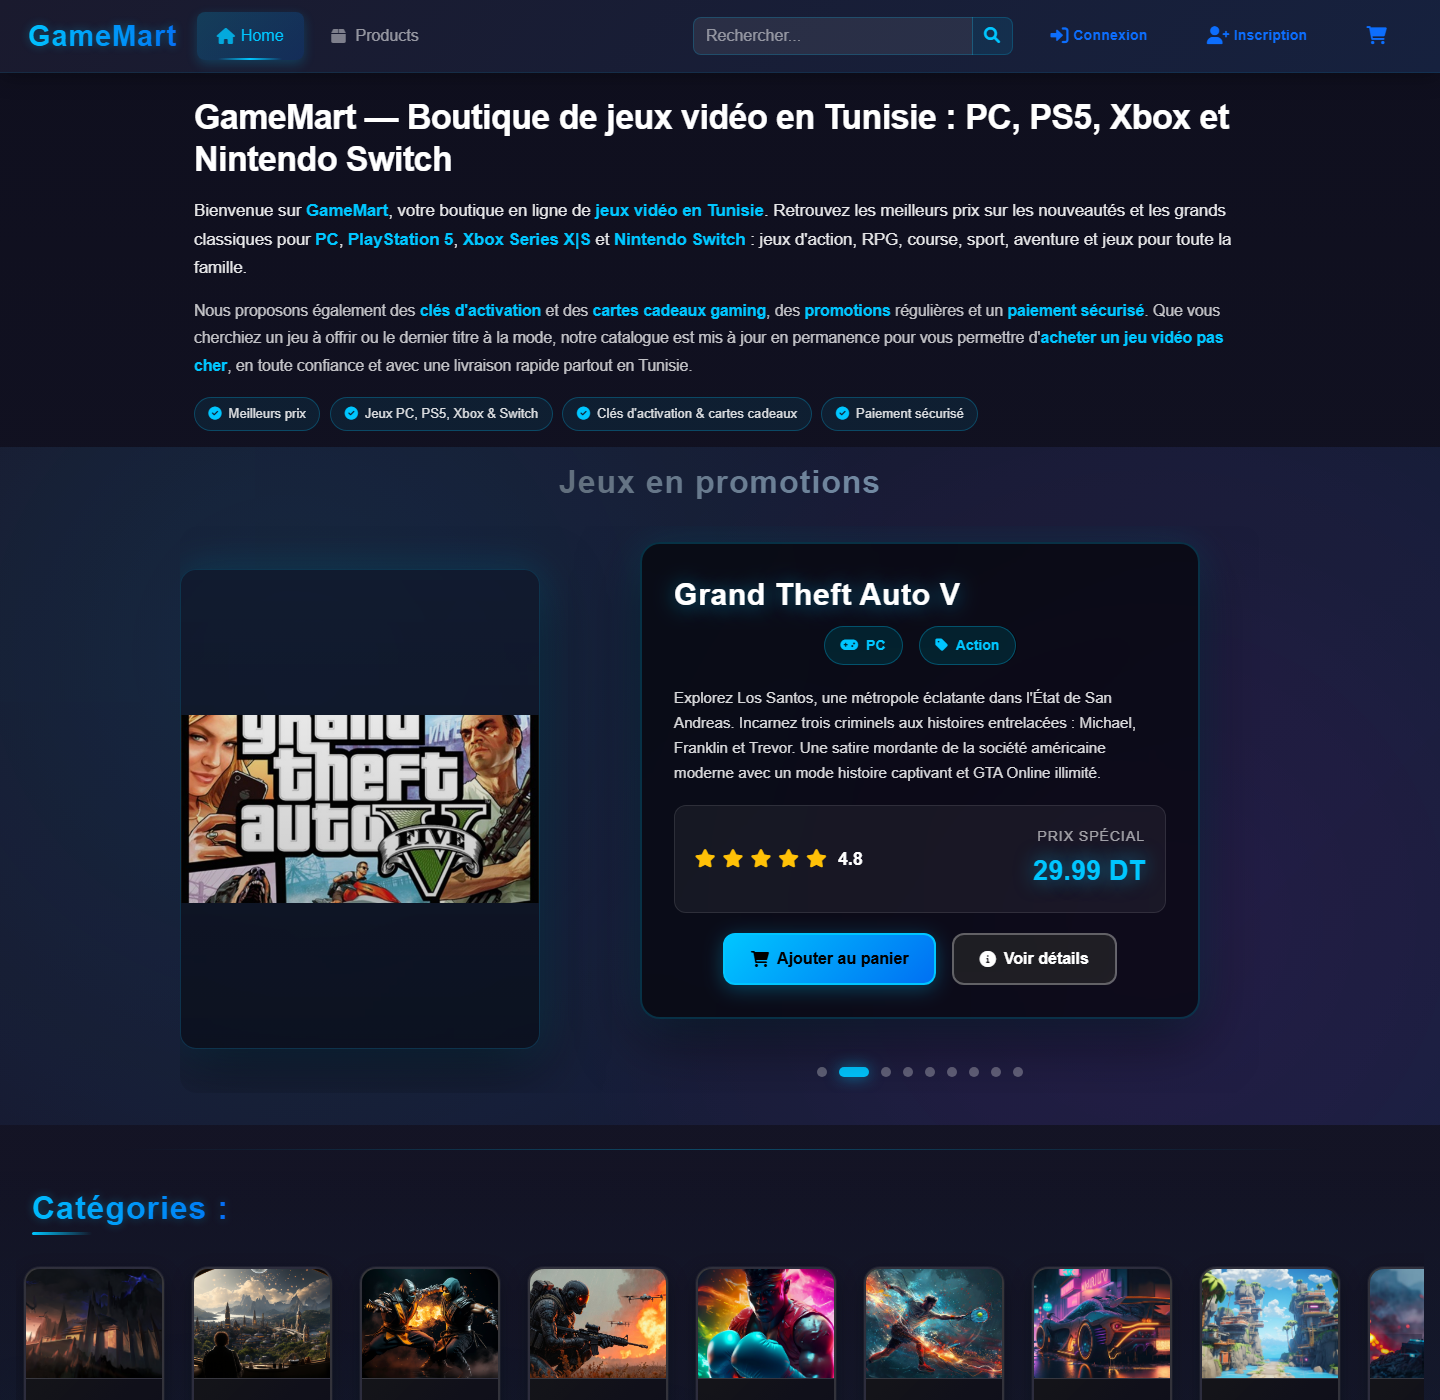
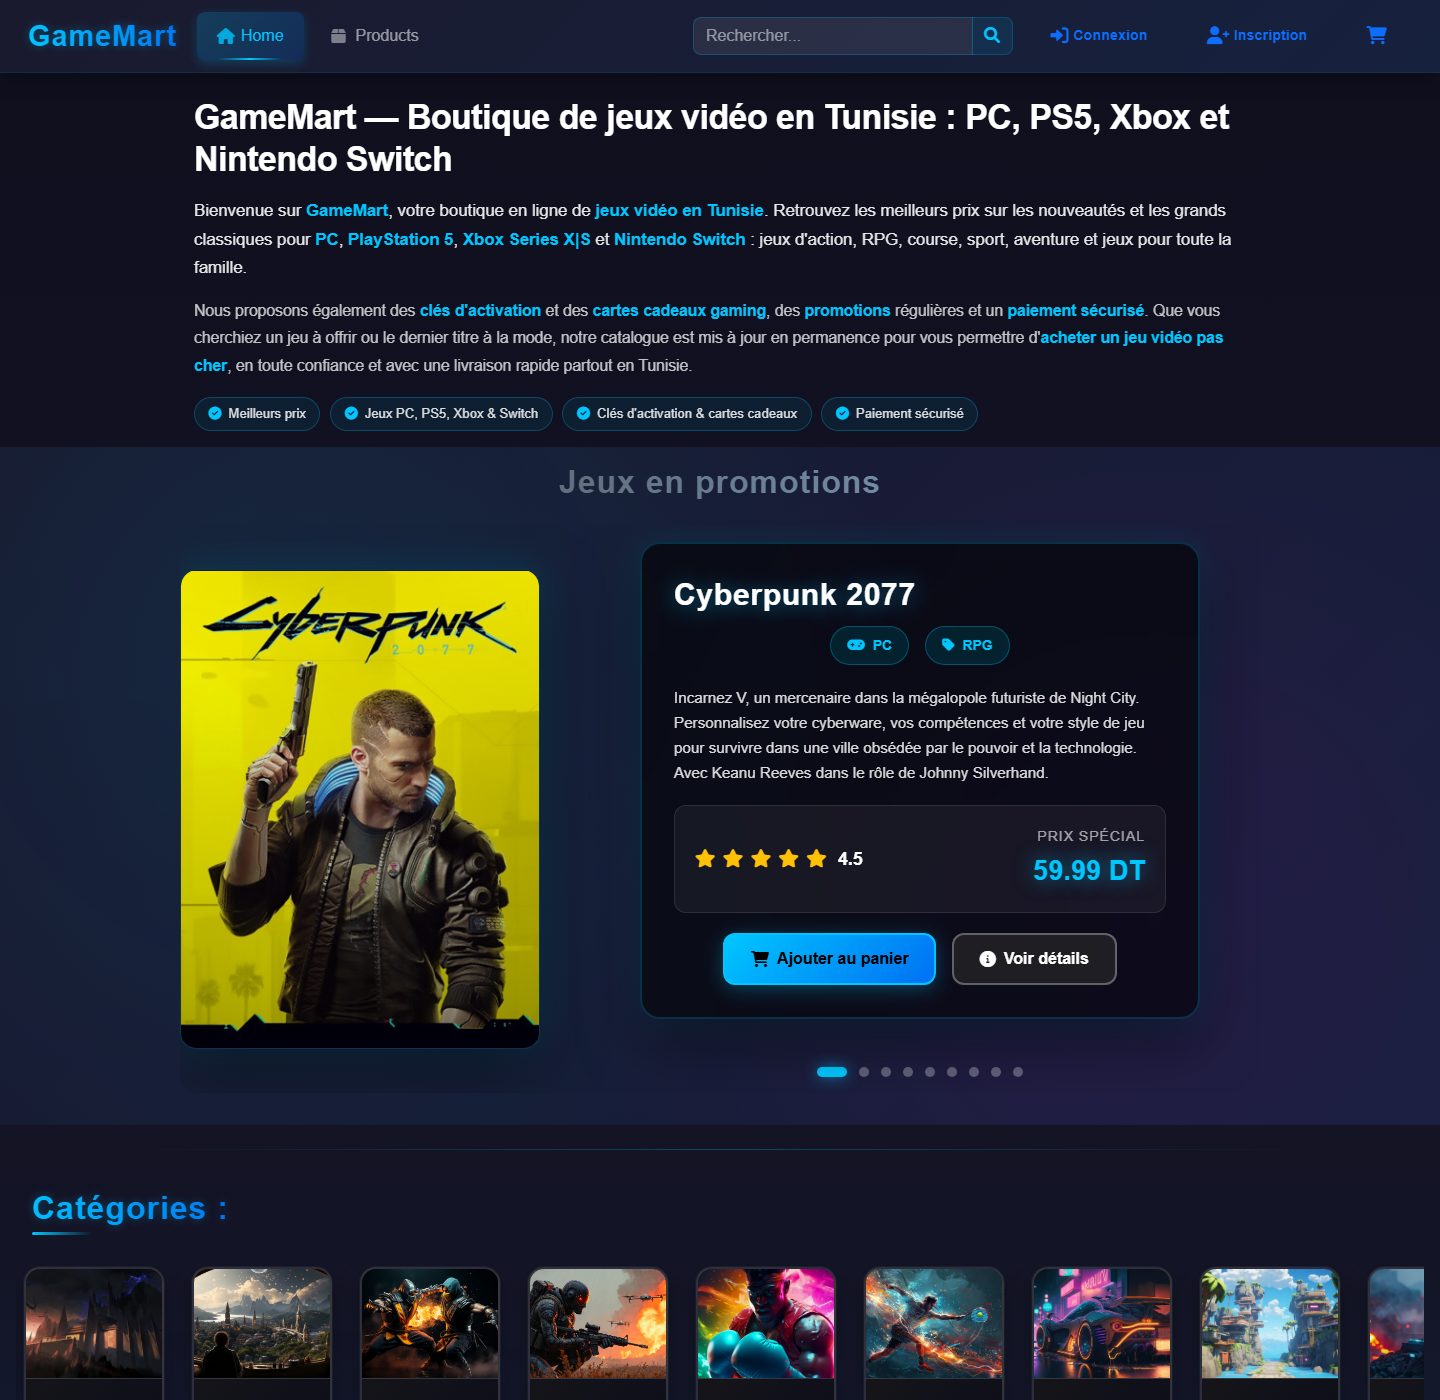
docs(seo): capture accueil depuis la production et mise a jour du README des figures

diff --git a/docs/rapport-images/README.md b/docs/rapport-images/README.md
@@ -1,34 +1,48 @@
 # Captures du rapport SEO & Digital Marketing
 
-Ce dossier est destiné à recevoir les captures d'écran à insérer dans
-`rapport-seo-digital-marketing.md`.
+Ce dossier documente les captures utilisées dans `rapport-seo-digital-marketing.md`.
 
-Le rapport utilise volontairement des **emplacements réservés** (pas d'images
-intégrées) : chaque figure correspond à une capture à coller manuellement.
+Les images sont référencées en HTML (`<img src="docs/audit-screenshots/...">`) dans le
+rapport, afin de respecter la consigne « pas de markdown d'image `![alt](url)` » tout
+en affichant réellement les captures.
 
-## Correspondance Figure → fichier suggéré
+## Correspondance Figure → fichier
 
-| Figure | Sujet attendu | Nom de fichier suggéré |
+| Figure | Sujet | Fichier |
 |---|---|---|
-| 1 | Page d'accueil du site | `figure-01-accueil.png` |
-| 2 | Page catalogue avec filtres | `figure-02-catalogue.png` |
-| 3 | GTM — écran Versions | `figure-03-gtm-versions.png` |
-| 4 | GTM — liste des balises | `figure-04-gtm-balises.png` |
-| 5 | GTM — espace de travail | `figure-05-gtm-workspace.png` |
-| 6 | GTM — déclencheurs | `figure-06-gtm-declencheurs.png` |
-| 7 | GA4 — aperçu temps réel | `figure-07-ga4-realtime.png` |
-| 8 | GA4 — instantané des rapports | `figure-08-ga4-snapshot.png` |
-| 9 | GSC — vue d'ensemble | `figure-09-gsc-overview.png` |
-| 10 | GSC — sitemaps | `figure-10-gsc-sitemaps.png` |
-| 11 | GSC — inspection d'URL | `figure-11-gsc-inspection.png` |
-| 12 | Sitemap XML | `figure-12-sitemap.png` |
-| 13 | robots.txt | `figure-13-robots.png` |
-| 14 | Test robots.txt | `figure-14-robots-test.png` |
-| 15 | Synthèse GTM + GA4 + GSC | `figure-15-synthese.png` |
+| 1 | Page d'accueil en production | `docs/audit-screenshots/site-accueil.png` |
+| 2 | Page catalogue `/produits` | `docs/audit-screenshots/site-catalogue.png` |
+| 3 | Audit — H1 manquants (42 URL) | `docs/audit-screenshots/04-h1-manquants.png` |
+| 4 | Audit — titles dupliqués | `docs/audit-screenshots/01-titles-dupliques.png` |
+| 5 | SERP concurrentielle (Tunisie) | `docs/audit-screenshots/12-mozbar-serp.png` |
+| 6 | Profil de liens (Moz) | `docs/audit-screenshots/11-mozbar-site.png` |
+| 7 | GTM — Versions | `docs/audit-screenshots/gtm-01-versions.png` |
+| 8 | GTM — Balises | `docs/audit-screenshots/gtm-04-balises.png` |
+| 9 | GTM — Espace de travail | `docs/audit-screenshots/gtm-02-accueil.jpg` |
+| 10 | GTM — Déclencheurs | `docs/audit-screenshots/gtm-05-declencheurs.png` |
+| 11 | GTM — Variables | `docs/audit-screenshots/gtm-06-variables.jpg` |
+| 12 | GTM — Destinations | `docs/audit-screenshots/gtm-03-destinations.jpg` |
+| 13 | GA4 — Temps réel (événements) | `docs/audit-screenshots/ga4-02-temps-reel-evenements.jpg` |
+| 14 | GA4 — Instantané des rapports | `docs/audit-screenshots/ga4-01-rapports-vue-ensemble.jpg` |
+| 15 | GA4 — Pages en temps réel | `docs/audit-screenshots/ga4-03-temps-reel-pages.png` |
+| 16 | GSC — Vue d'ensemble | `docs/audit-screenshots/gsc-01-vue-ensemble.png` |
+| 17 | GSC — Sitemaps | `docs/audit-screenshots/gsc-05-sitemaps.png` |
+| 18 | GSC — Inspection d'URL | `docs/audit-screenshots/gsc-04-inspection-url.jpg` |
+| 19 | GSC — Performances | `docs/audit-screenshots/gsc-02-performances.png` |
+| 20 | GSC — Requêtes | `docs/audit-screenshots/gsc-03-requetes.jpg` |
+| 21 | Sitemap XML servi en production | `docs/audit-screenshots/sitemap-xml.png` |
+| 22 | robots.txt servi en production | `docs/audit-screenshots/robots-txt.png` |
+| 23 | Crawl — codes de réponse 2xx | `docs/audit-screenshots/06-codes-reponse-2xx.png` |
+| 24 | PageSpeed — accueil | `docs/audit-screenshots/09-pagespeed-accueil.png` |
+| 25 | PageSpeed — fiche produit | `docs/audit-screenshots/10-pagespeed-fiche.png` |
 
-## Comment procéder
+## Comment régénérer les captures du site
 
-1. Enregistrez vos captures dans ce dossier avec les noms ci-dessus (ou d'autres noms).
-2. Insérez-les dans le rapport aux emplacements `📸 Emplacement image X`.
-3. Si vous utilisez un traitement de texte (Word/PDF), glissez-déposez l'image
-   à l'endroit du bloc `[COLLER ICI - Capture X : ...]`.
+Les figures 1, 2, 21 et 22 ont été capturées automatiquement avec Edge en mode headless :
+
+```bash
+msedge --headless=new --disable-gpu --hide-scrollbars \
+  --window-size=1440,1400 --virtual-time-budget=4000 \
+  --screenshot="docs/audit-screenshots/site-accueil.png" \
+  "https://gamemarttn.netlify.app/"
+```
